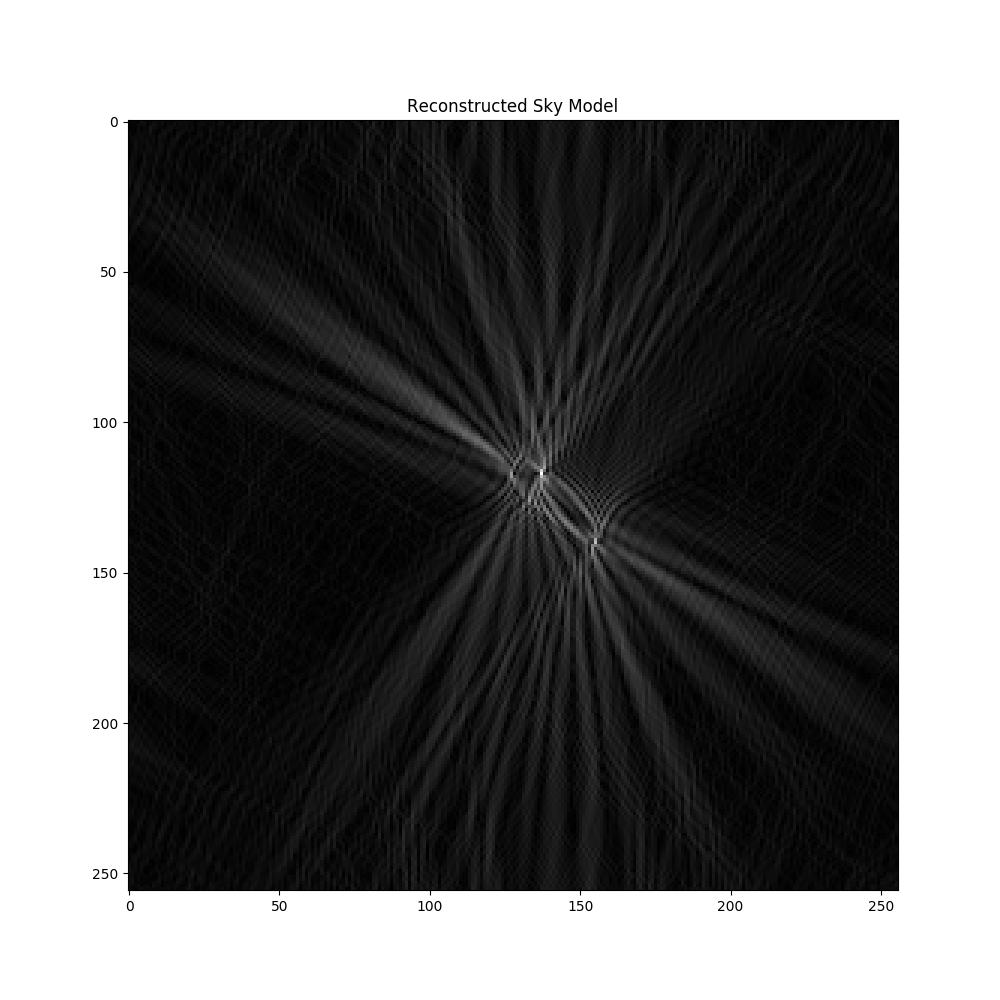
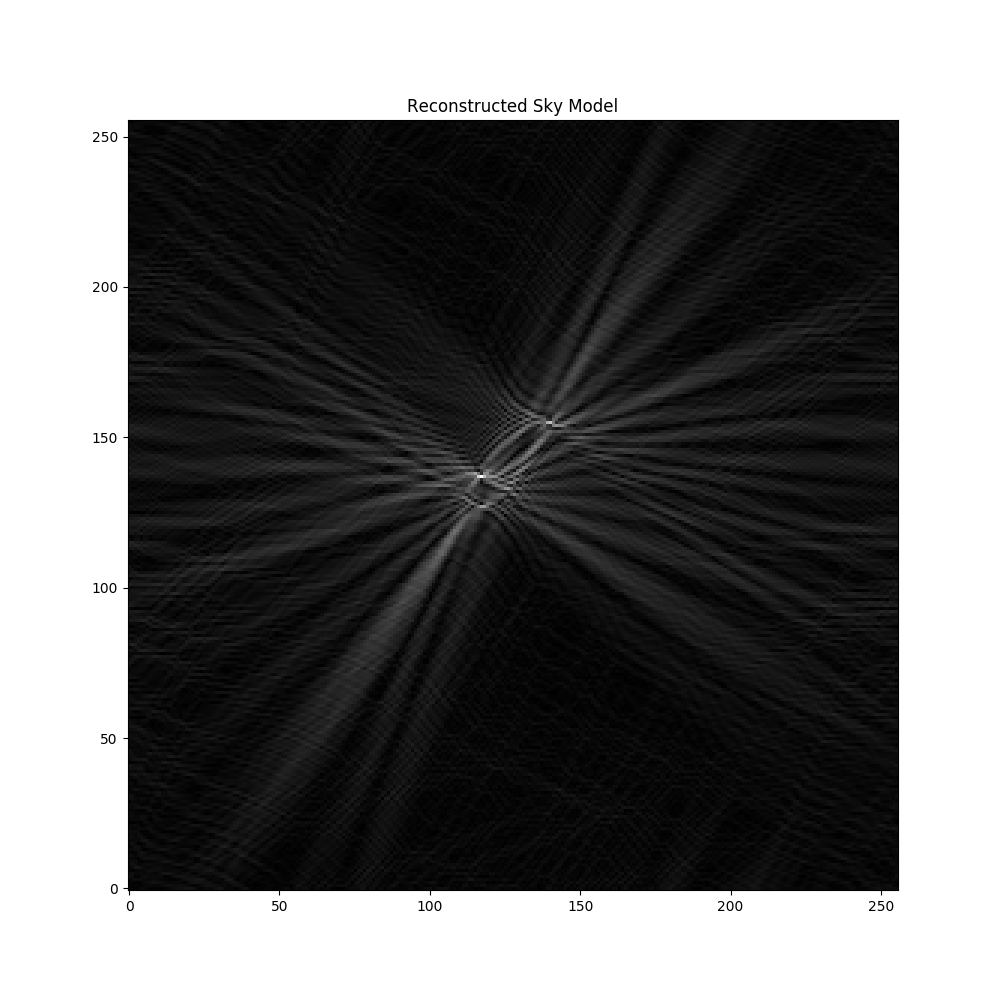
imshow origin was set to upper, thats why images were rotated

diff --git a/Sky_Models/line.lsm.html b/Sky_Models/line.lsm.html
@@ -1,0 +1,27 @@
+<html><head>
+<meta http-equiv="content-type" content="text/html; charset=windows-1252"></head><body mdltype="SkyModel">
+<h1>Source list</h1>
+<table frame="box" rules="all" cellpadding="5" border="1">
+<tbody><tr mdltype="Source"><td mdltype="str" mdlval="'1'"><a>name:1</a> </td> <td mdltype="Position"><a mdltype="float" mdlval="4.9793225450667888"></a><a>ra:4.97932254507</a>  <a mdltype="float" mdlval="-1.3155380451812768"></a><a>dec:-1.31553804518</a>  </td> <td mdltype="Polarization"><a mdltype="float" mdlval="0.5"></a><a>I:0.5</a>  <a mdltype="int" mdlval="0"></a><a>Q:0</a>  <a mdltype="int" mdlval="0"></a><a>U:0</a>  <a mdltype="int" mdlval="0"></a><a>V:0</a>  </td> <td mdltype="float" mdlattr="r" mdlval="0.015129586926423459"><a>r:0.0151295869264</a> </td> </tr>
+<tbody><tr mdltype="Source"><td mdltype="str" mdlval="'2'"><a>name:2</a> </td> <td mdltype="Position"><a mdltype="float" mdlval="4.988888"></a><a>ra:4.988888</a>  <a mdltype="float" mdlval="-1.3155380451812768"></a><a>dec:-1.31553804518</a>  </td> <td mdltype="Polarization"><a mdltype="float" mdlval="0.6"></a><a>I:0.6</a>  <a mdltype="int" mdlval="0"></a><a>Q:0</a>  <a mdltype="int" mdlval="0"></a><a>U:0</a>  <a mdltype="int" mdlval="0"></a><a>V:0</a>  </td> <td mdltype="float" mdlattr="r" mdlval="0.015129586926423459"><a>r:0.0151295869264</a> </td> </tr>
+<tbody><tr mdltype="Source"><td mdltype="str" mdlval="'3'"><a>name:3</a> </td> <td mdltype="Position"><a mdltype="float" mdlval="4.9999"></a><a>ra:4.9999</a>  <a mdltype="float" mdlval="-1.3155380451812768"></a><a>dec:-1.31553804518</a>  </td> <td mdltype="Polarization"><a mdltype="float" mdlval="0.7"></a><a>I:0.7</a>  <a mdltype="int" mdlval="0"></a><a>Q:0</a>  <a mdltype="int" mdlval="0"></a><a>U:0</a>  <a mdltype="int" mdlval="0"></a><a>V:0</a>  </td> <td mdltype="float" mdlattr="r" mdlval="0.015129586926423459"><a>r:0.0151295869264</a> </td> </tr>
+<tbody><tr mdltype="Source"><td mdltype="str" mdlval="'4'"><a>name:4</a> </td> <td mdltype="Position"><a mdltype="float" mdlval="5.01"></a><a>ra:5.01</a>  <a mdltype="float" mdlval="-1.3155380451812768"></a><a>dec:-1.31553804518</a>  </td> <td mdltype="Polarization"><a mdltype="float" mdlval="0.8"></a><a>I:0.8</a>  <a mdltype="int" mdlval="0"></a><a>Q:0</a>  <a mdltype="int" mdlval="0"></a><a>U:0</a>  <a mdltype="int" mdlval="0"></a><a>V:0</a>  </td> <td mdltype="float" mdlattr="r" mdlval="0.015129586926423459"><a>r:0.0151295869264</a> </td> </tr>
+<tbody><tr mdltype="Source"><td mdltype="str" mdlval="'5'"><a>name:5</a> </td> <td mdltype="Position"><a mdltype="float" mdlval="5.02"></a><a>ra:5.02</a>  <a mdltype="float" mdlval="-1.3155380451812768"></a><a>dec:-1.31553804518</a>  </td> <td mdltype="Polarization"><a mdltype="float" mdlval="0.9"></a><a>I:0.9</a>  <a mdltype="int" mdlval="0"></a><a>Q:0</a>  <a mdltype="int" mdlval="0"></a><a>U:0</a>  <a mdltype="int" mdlval="0"></a><a>V:0</a>  </td> <td mdltype="float" mdlattr="r" mdlval="0.015129586926423459"><a>r:0.0151295869264</a> </td> </tr>
+<tbody><tr mdltype="Source"><td mdltype="str" mdlval="'6'"><a>name:1</a> </td> <td mdltype="Position"><a mdltype="float" mdlval="5.03"></a><a>ra:5.03</a>  <a mdltype="float" mdlval="-1.3155380451812768"></a><a>dec:-1.31553804518</a>  </td> <td mdltype="Polarization"><a mdltype="float" mdlval="1"></a><a>I:1</a>  <a mdltype="int" mdlval="0"></a><a>Q:0</a>  <a mdltype="int" mdlval="0"></a><a>U:0</a>  <a mdltype="int" mdlval="0"></a><a>V:0</a>  </td> <td mdltype="float" mdlattr="r" mdlval="0.015129586926423459"><a>r:0.0151295869264</a> </td> </tr>
+
+
+
+</tbody></table>
+<h1>Plot styles</h1>
+<a mdltype="dict" mdlattr="plotstyles"></a><table frame="box" rules="all" cellpadding="5" border="1">
+<tbody><tr mdltype="PlotStyle" mdlattr="current"><td bgcolor="yellow">current</td><td mdltype="int" mdlattr="apply" mdlval="-2"><a>apply:-2</a> </td> <td mdltype="str" mdlattr="label" mdlval="'%N %BJy'"><a>label:%N %BJy</a> </td> <td mdltype="str" mdlattr="label_color" mdlval="'red'"><a>label_color:red</a> </td> <td mdltype="int" mdlattr="label_size" mdlval="12"><a>label_size:12</a> </td> <td mdltype="int" mdlattr="show_list" mdlval="2"><a>show_list:2</a> </td> <td mdltype="int" mdlattr="show_plot" mdlval="2"><a>show_plot:2</a> </td> <td mdltype="str" mdlattr="symbol" mdlval="'default'"><a>symbol:default</a> </td> <td mdltype="str" mdlattr="symbol_color" mdlval="'red'"><a>symbol_color:red</a> </td> <td mdltype="str" mdlattr="symbol_linewidth" mdlval="'default'"><a>symbol_linewidth:default</a> </td> <td mdltype="str" mdlattr="symbol_size" mdlval="'default'"><a>symbol_size:default</a> </td> </tr>
+<tr mdltype="PlotStyle" mdlattr="default"><td bgcolor="yellow">default</td><td mdltype="int" mdlattr="apply" mdlval="1000"><a>apply:1000</a> </td> <td mdltype="str" mdlattr="label" mdlval="'none'"><a>label:none</a> </td> <td mdltype="str" mdlattr="label_color" mdlval="'blue'"><a>label_color:blue</a> </td> <td mdltype="int" mdlattr="label_size" mdlval="6"><a>label_size:6</a> </td> <td mdltype="int" mdlattr="show_list" mdlval="2"><a>show_list:2</a> </td> <td mdltype="int" mdlattr="show_plot" mdlval="2"><a>show_plot:2</a> </td> <td mdltype="str" mdlattr="symbol" mdlval="'plus'"><a>symbol:plus</a> </td> <td mdltype="str" mdlattr="symbol_color" mdlval="'yellow'"><a>symbol_color:yellow</a> </td> <td mdltype="int" mdlattr="symbol_size" mdlval="2"><a>symbol_size:2</a> </td> </tr>
+<tr mdltype="PlotStyle" mdlattr="selected"><td bgcolor="yellow">selected</td><td mdltype="int" mdlattr="apply" mdlval="-1"><a>apply:-1</a> </td> <td mdltype="str" mdlattr="label" mdlval="'%N'"><a>label:%N</a> </td> <td mdltype="str" mdlattr="label_color" mdlval="'green'"><a>label_color:green</a> </td> <td mdltype="str" mdlattr="label_size" mdlval="'default'"><a>label_size:default</a> </td> <td mdltype="int" mdlattr="show_list" mdlval="2"><a>show_list:2</a> </td> <td mdltype="int" mdlattr="show_plot" mdlval="2"><a>show_plot:2</a> </td> <td mdltype="str" mdlattr="symbol" mdlval="'default'"><a>symbol:default</a> </td> <td mdltype="str" mdlattr="symbol_color" mdlval="'cyan'"><a>symbol_color:cyan</a> </td> <td mdltype="str" mdlattr="symbol_linewidth" mdlval="'default'"><a>symbol_linewidth:default</a> </td> <td mdltype="str" mdlattr="symbol_size" mdlval="'default'"><a>symbol_size:default</a> </td> </tr>
+<tr mdltype="PlotStyle" mdlattr="tag:r"><td bgcolor="yellow">tag:r</td><td mdltype="int" mdlattr="apply" mdlval="1000"><a>apply:1000</a> </td> <td mdltype="str" mdlattr="label" mdlval="'default'"><a>label:default</a> </td> <td mdltype="str" mdlattr="label_color" mdlval="'default'"><a>label_color:default</a> </td> <td mdltype="str" mdlattr="label_size" mdlval="'default'"><a>label_size:default</a> </td> <td mdltype="str" mdlattr="symbol" mdlval="'default'"><a>symbol:default</a> </td> <td mdltype="str" mdlattr="symbol_color" mdlval="'default'"><a>symbol_color:default</a> </td> <td mdltype="str" mdlattr="symbol_linewidth" mdlval="'default'"><a>symbol_linewidth:default</a> </td> <td mdltype="str" mdlattr="symbol_size" mdlval="'default'"><a>symbol_size:default</a> </td> </tr>
+ </tbody></table>
+
+<h1>Other properties</h1>
+<p><a mdltype="float" mdlattr="ra0" mdlval="5.0229435717091961"></a><a>Field centre ra: 5.02294357171</a>  <a mdltype="float" mdlattr="dec0" mdlval="-1.3053931924309257"></a><a>dec: -1.30539319243</a>  </p>
+<p><a mdltype="str" mdlattr="ASCII_Format" mdlval="'name ra_h ra_m ra_s dec_d dec_m dec_s i'"></a><a>ASCII_Format:name ra_h ra_m ra_s dec_d dec_m dec_s i</a>  </p>
+
+</body></html>

diff --git a/Utilities.py b/Utilities.py
@@ -114,9 +114,9 @@ def plot_baseline(b_ENU, L, f, h0, h1, dec):
     v = lam**(-1)*(-np.sin(dec)*np.cos(h)*X+np.sin(dec)*np.sin(h)*Y+np.cos(dec)*Z)
     w = lam**(-1)*(np.cos(dec)*np.cos(h)*X-np.cos(dec)*np.sin(h)*Y+np.sin(dec)*Z)
     # plotBL.UV(u,v,w)
-    a=np.sqrt(X**2+Y**2)/lam # major axis
-    b=a*np.sin(dec)              # minor axis
-    v0=(Z/lam)*np.cos(dec)  # center of ellipse
+    a = np.sqrt(X**2+Y**2)/lam # major axis
+    b = a*np.sin(dec)              # minor axis
+    v0 = (Z/lam)*np.cos(dec)  # center of ellipse
     UVellipse(u,v,w,a,b,v0)
 
 def plot_array(antennas, name):
@@ -167,8 +167,7 @@ def plot_visibilities(b_ENU, L, f, h0, h1, model_name):
     point_sources[:,2] = m[0:]
     dec = dec_0
     #################################################################################################
-    plot_sky_model(l, m, Flux_sources)
-    # plot_sky_model(RA_sources, DEC_sources, Flux_sources)
+
 
     B = get_B(b_ENU, L)
     lam = get_lambda(f)
@@ -236,7 +235,11 @@ def plot_visibilities(b_ENU, L, f, h0, h1, model_name):
     scaled_uv[:,1] *= np.deg2rad(cell_size_m * Nm)
 
     gridded = grid(Nl, Nm, uv_tracks, cell_size_u, cell_size_v, scaled_uv)
-    image_visibilities(gridded)
+
+    plot_sky_model(l, m, Flux_sources, Nl, Nm)
+    # plot_sky_model(RA_sources, DEC_sources, Flux_sources)
+
+    image_visibilities(gridded, Nl, Nm, cell_size_l, cell_size_m)
 
 def find_closest_power_of_two(number):
     s = 2
@@ -246,23 +249,8 @@ def find_closest_power_of_two(number):
         else:
             s *= 2
 
-def find_closest_coordinates_in_positions(co, positions):
-    close_i = 0
-    close_j = 0
-    min_dist = 999
-    for i in range(len(positions)):
-        for j in range(len(positions[i])):
-            dist = np.sqrt((co[0] - positions[i][j][0])**2 + (co[1] - positions[i][j][1])**2)
-            if dist < min_dist:
-                min_dist = dist
-                close_i = i
-                close_j = j
-    return close_i, close_j
-
 def grid(Nl, Nm, uv_tracks, d_u, d_v, uv):
-    # print(len(uv), len(uv_tracks)) # these correspond to each other
     vis = np.zeros((Nl, Nm), dtype=complex)
-    # print(uv)
     counter = np.zeros((Nl, Nm))
     positions = np.empty((Nl, Nm), dtype=object)
     half_l = int(Nl / 2)
@@ -272,19 +260,14 @@ def grid(Nl, Nm, uv_tracks, d_u, d_v, uv):
     for i in range(len(positions)):
         for j in range(len(positions[i])):
             positions[i][j] = (i - half_l, j - half_m)
-    # print(positions)
     for i in range(len(uv)):
-        x, y = int(np.round(uv[i][0])), int(np.round(uv[i][1]))
-        # x, y = find_closest_coordinates_in_positions(uv[i], positions)
+        y,x = int(np.round(uv[i][0])), int(np.round(uv[i][1])) # why is it flipped, a question to ask dr Grobler perhaps
         vis[x][y] += uv_tracks[i]
         counter[x][y] += 1
-    # vis = vis/counter
     for i in range(len(vis)):
         for j in range(len(vis[i])):
             if not counter[i][j] == 0:
                 vis[i][j] = vis[i][j] / counter[i][j]
-                # print(vis[i][j])
-    # print(vis)
     return vis
 
 def plot_sampled_visibilities(point_sources, u_d, v_d):
@@ -313,12 +296,10 @@ def plot_sampled_visibilities(point_sources, u_d, v_d):
     plt.close()
     return z
 
-def plot_sky_model(l, m, Flux_sources):
+def plot_sky_model(l, m, Flux_sources, Nl, Nm):
     # Plot sky model in L and M
     fig = plt.figure(figsize=(10,10))
     ax = fig.add_subplot(111)
-    # plt.xlim([-4,4])
-    # plt.ylim([-4,4])
     plt.xlabel("$l$ [degrees]")
     plt.ylabel("$m$ [degrees]")
     max_flux = max(Flux_sources)
@@ -329,6 +310,13 @@ def plot_sky_model(l, m, Flux_sources):
     colour = []
     for i in col:
         colour.append((i,i,i))
+    # l_d = (l*(180/np.pi)) * Nl/3
+    # m_d = (m*(180/np.pi)) * Nm/3
+    # im = np.zeros((Nl,Nm))
+    # for i in range(len(l_d)):
+    #     im[int(np.round(l_d[i]))][int(np.round(m_d[i]))] = Flux_sources[i]
+    #     print(im[int(np.round(l_d[i]))][int(np.round(m_d[i]))])
+    # plt.imshow(im, cmap="gray",)
     plt.scatter(l*(180/np.pi),m*(180/np.pi),c=colour)
     ax.set_facecolor('xkcd:black')
     fig.patch.set_alpha(0)
@@ -336,32 +324,18 @@ def plot_sky_model(l, m, Flux_sources):
     plt.savefig("Plots/SkyModel.png", transparent=False)
     plt.close()
 
-def image_visibilities(grid):
-    # n = grid.shape[0] * grid.shape[1]
-    # grid = (1/n) * np.fft.fft2(grid)
-    # image = np.fft.ifft2(grid)
+def image_visibilities(grid, Nl, Nm, cell_size_l, cell_size_m):
     image = np.fft.fftshift(np.fft.ifft2(np.fft.ifftshift(grid)))
-    # image = np.fft.ifft2(grid)
     image = np.abs(image)
-
-    # max = -999
-    # maxi = -1
-    # counter = [-1,-1]
-    # for i in image:
-    #     counter[0] = counter[0] + 1
-    #     for j in i:
-    #         counter[1] = counter[1] + 1
-    #         if j > max:
-    #             max = j
-    #             maxi = counter
-    # print(max, maxi)
-
-    # image = np.abs(np.fft.fftshift(np.fft.ifft2(np.fft.ifftshift(grid))))
-    # image = np.flip(np.flip(image,axis=1),axis=0)
     img = plt.figure(figsize=(10,10))
     plt.title("Reconstructed Sky Model")
     plt.set_cmap('gray')
-    plt.imshow(np.real(image))
-    # plt.plot(image.real, image.imag)
+    # DECLINATION = [-74, -39, -37.481]
+    # DECLINATION = DECLINATION[0] + DECLINATION[1]/60. + DECLINATION[2]/3600.
+    # RA = [-4, -44, -6.686]
+    # RA = RA[0] + RA[1]/60. + RA[2]/3600.
+    # plt.imshow(np.real(image), extent=[RA - Nl * 2 / 2 * cell_size_l, RA + Nl * 2 / 2 * cell_size_l,
+    #                                                DECLINATION - Nm * 2 / 2 * cell_size_m, DECLINATION + Nm * 2 / 2 * cell_size_m])
+    plt.imshow(np.real(image), origin='lower')
     plt.savefig('Plots/ReconstructedSkyModel.png', transparent=True)
     plt.close()

diff --git a/fftTest.py b/fftTest.py
@@ -30,16 +30,16 @@ plt.show()
 # c = n * np.fft.ifft2(b)
 # c = np.fft.ifftshift(c)
 
-a = [[1,2,3,4,5,6,7,8],
-[1,2,3,4,5,6,7,8],
-[1,2,3,4,5,6,7,8],
-[1,2,3,4,5,6,7,8],
-[1,2,3,4,5,6,7,8],
-[1,2,3,4,5,6,7,8],
-[1,2,3,4,5,6,7,8],
-[1,2,3,4,5,6,7,8]]
-
-N = 8*8
-d = (1/N) * np.fft.fft2(a)
-i = N * np.fft.ifft2(d)
-print(i)
+# a = [[1,2,3,4,5,6,7,8],
+# [1,2,3,4,5,6,7,8],
+# [1,2,3,4,5,6,7,8],
+# [1,2,3,4,5,6,7,8],
+# [1,2,3,4,5,6,7,8],
+# [1,2,3,4,5,6,7,8],
+# [1,2,3,4,5,6,7,8],
+# [1,2,3,4,5,6,7,8]]
+#
+# N = 8*8
+# d = (1/N) * np.fft.fft2(a)
+# i = N * np.fft.ifft2(d)
+# print(i)
